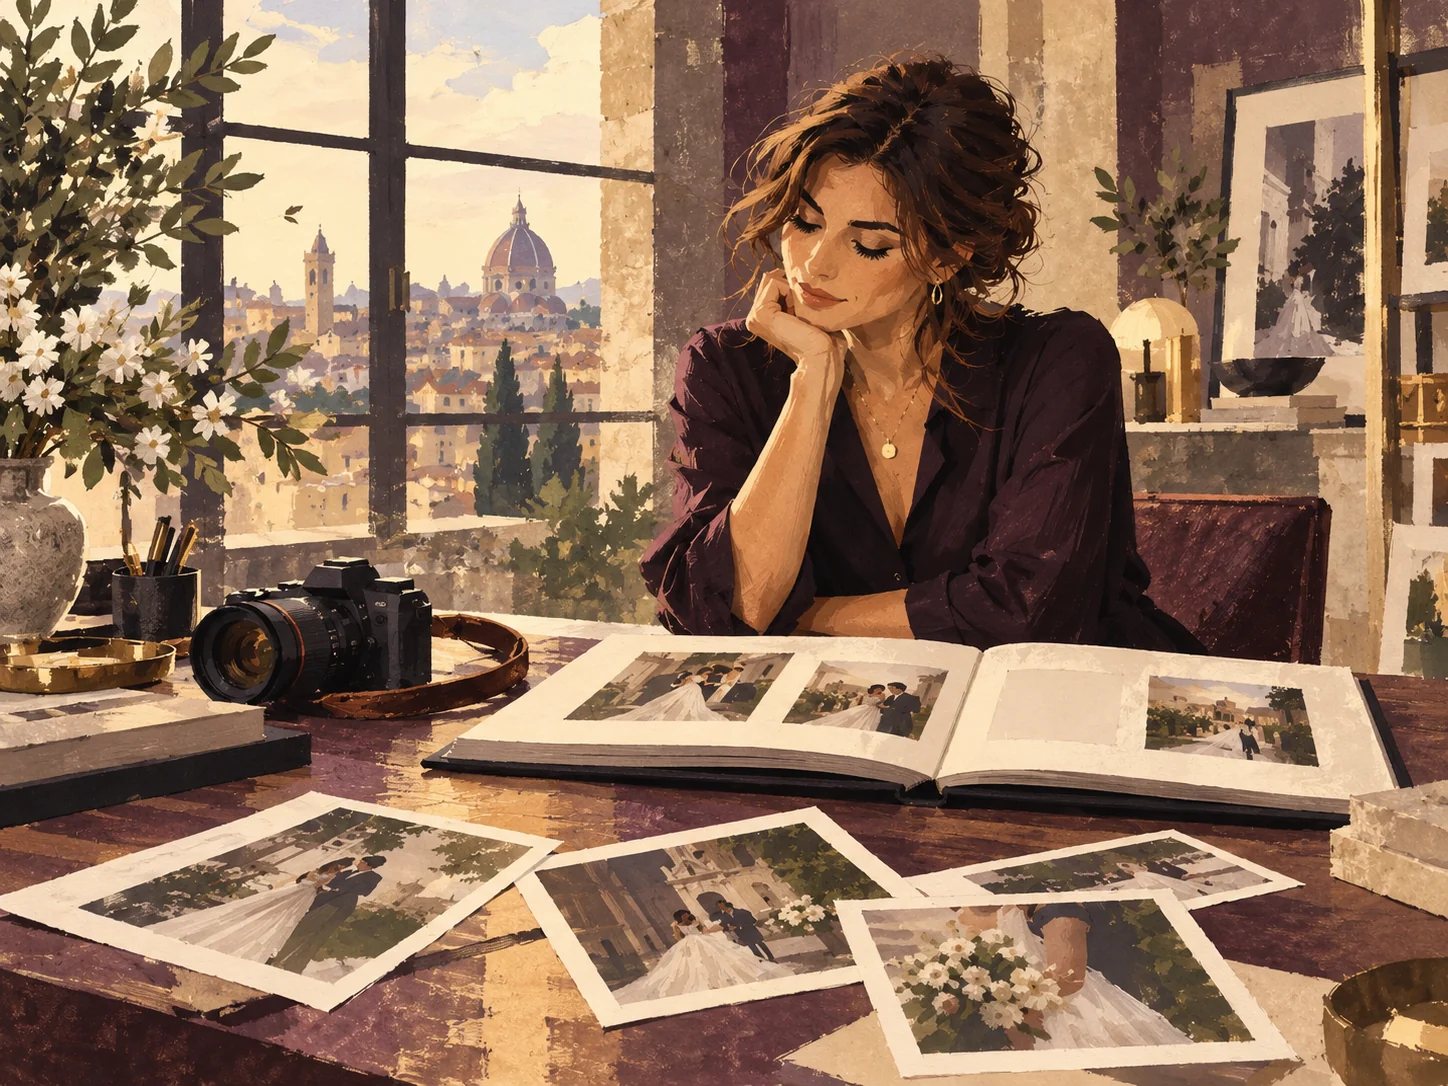
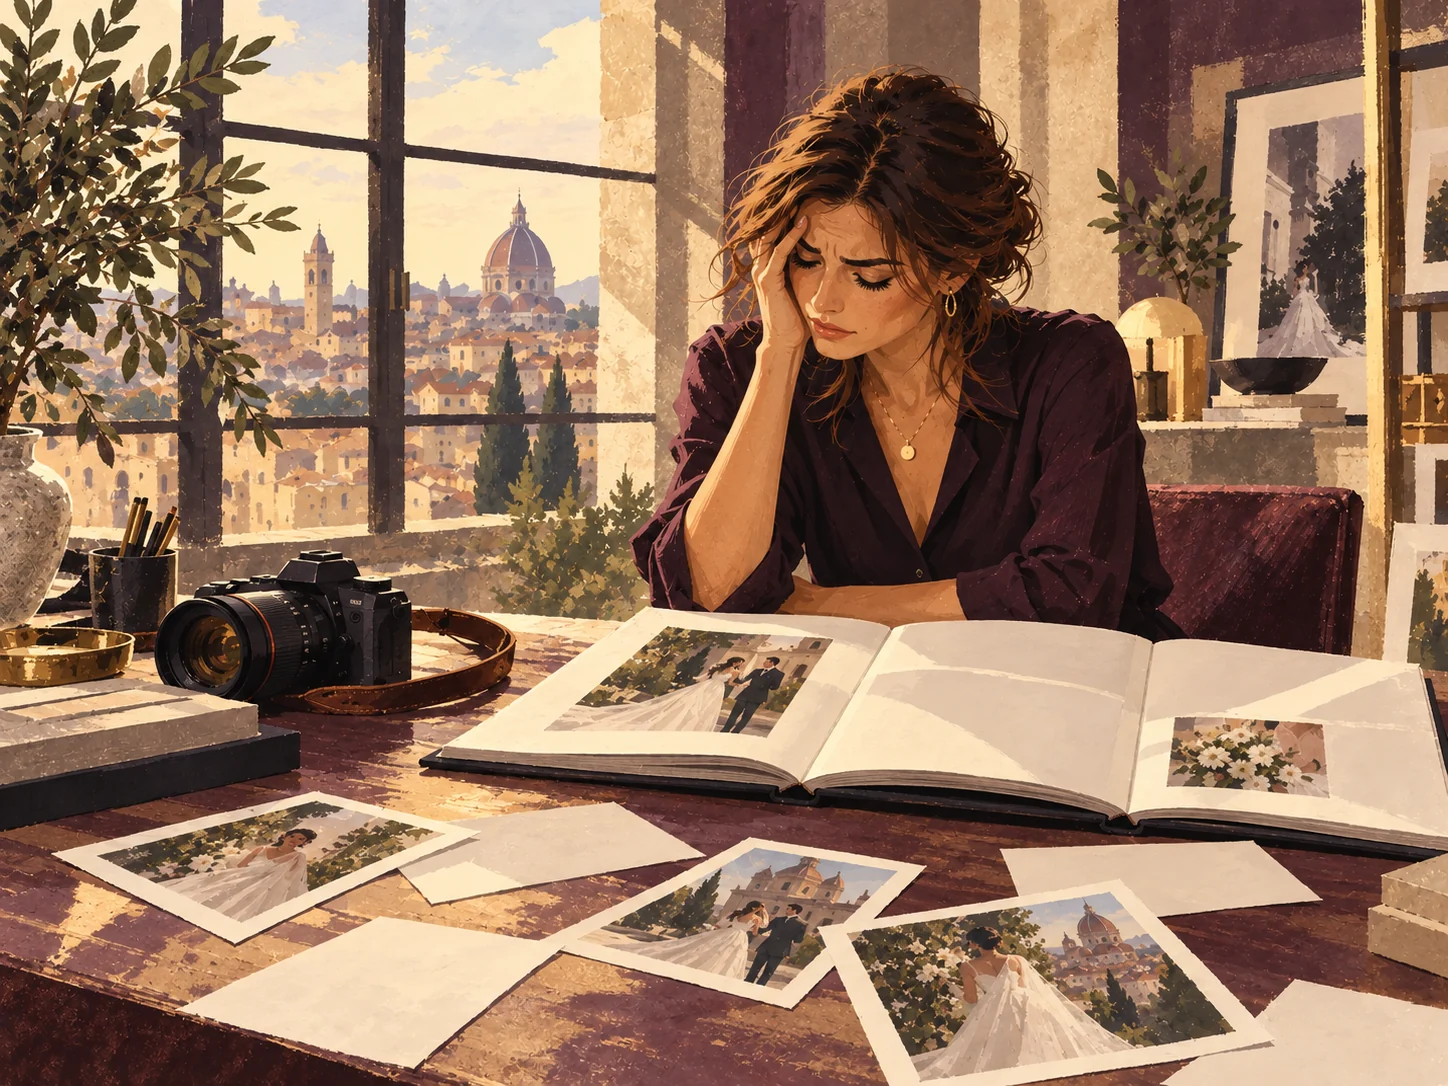
Integrate frustrated photographer and portfolio alternatives

diff --git a/fotografen.html b/fotografen.html
@@ -92,19 +92,31 @@
     .section-content { max-width: 720px; }
     .section-content > p + p { margin-top: 18px; }
     .section-content > p { font-size: 16px; line-height: 1.85; }
-    #problem .section-grid { grid-template-columns: minmax(0, 1fr) minmax(280px, .88fr); gap: clamp(42px, 7vw, 88px); }
-    #problem .section-copy { display: grid; grid-template-columns: minmax(0, 1fr); gap: 20px; align-items: start; }
-    #problem .section-heading h2 { max-width: 560px; }
-    #problem .section-content { max-width: 610px; }
+    #problem .section-grid { display: block; }
+    .problem-panel { overflow: hidden; padding: clamp(24px, 4.5vw, 52px); border: 1px solid var(--border); border-radius: 20px; background: linear-gradient(135deg, rgb(255 255 255 / 2%), transparent 50%), var(--subtle); }
+    .problem-top { display: grid; grid-template-columns: minmax(0, 1.05fr) minmax(320px, .95fr); gap: clamp(32px, 5vw, 70px); align-items: stretch; }
+    .problem-intro { display: flex; flex-direction: column; justify-content: center; gap: 22px; }
+    #problem .section-heading h2 { max-width: 590px; }
+    #problem .section-content { max-width: 630px; }
     #problem .section-content > p { font-size: clamp(16px, 1.45vw, 18px); line-height: 1.75; }
     #problem .section-content > p:first-child { color: var(--ink); font-size: clamp(18px, 1.65vw, 20px); line-height: 1.65; }
-    #problem .section-content > p:last-child { padding-left: 18px; border-left: 1px solid var(--gold); color: var(--muted); }
-    #problem .section-illustration { justify-self: end; width: 100%; margin-top: 0; }
-    .portfolio-alternatives { margin-top: 28px; border-top: 1px solid var(--border); }
-    .portfolio-alternative { display: grid; grid-template-columns: minmax(120px, .72fr) minmax(0, 1.4fr); gap: 18px; padding: 16px 0; border-bottom: 1px solid var(--border); }
-    .portfolio-alternative h3 { margin: 0; color: var(--ink); font-size: 16px; font-weight: 600; letter-spacing: -.02em; line-height: 1.5; }
-    .portfolio-alternative p { color: var(--muted); font-size: 16px; line-height: 1.7; }
-    .portfolio-alternative .alternative-meta { display: block; margin-top: 5px; color: var(--gold); font: 500 9px/1.5 var(--mono); letter-spacing: .08em; text-transform: uppercase; }
+    .problem-illustration { display: flex; min-width: 0; flex-direction: column; align-self: stretch; overflow: hidden; border: 1px solid var(--border); border-radius: 16px; background: var(--surface); }
+    .problem-illustration img { display: block; width: 100%; min-height: 100%; flex: 1; aspect-ratio: 1.15 / 1; object-fit: cover; }
+    .problem-image-note { display: flex; justify-content: space-between; align-items: baseline; gap: 14px; padding: 13px 16px; border-top: 1px solid var(--border); color: var(--muted); font-size: 12px; }
+    .problem-image-note span:first-child { color: var(--gold); font: 500 9px/1.5 var(--mono); letter-spacing: .12em; }
+    .problem-options { margin-top: clamp(32px, 4vw, 48px); padding-top: 27px; border-top: 1px solid var(--border); }
+    .options-heading { display: flex; align-items: baseline; justify-content: space-between; gap: 20px; margin-bottom: 18px; }
+    .options-heading .eyebrow { margin: 0; }
+    .options-heading > p:last-child { color: var(--muted); font-size: 14px; }
+    .portfolio-alternatives { display: grid; grid-template-columns: repeat(3, minmax(0, 1fr)); gap: 14px; }
+    .portfolio-alternative { min-width: 0; padding: 20px; border: 1px solid var(--border); border-radius: 12px; background: rgb(255 255 255 / 1.4%); }
+    .alternative-heading { display: flex; align-items: center; gap: 12px; margin-bottom: 14px; }
+    .alternative-icon { display: grid; width: 38px; height: 38px; flex: 0 0 auto; place-items: center; border: 1px solid rgb(213 182 122 / 30%); border-radius: 10px; background: rgb(213 182 122 / 9%); color: var(--gold); }
+    .alternative-icon svg { width: 20px; height: 20px; fill: none; stroke: currentColor; stroke-linecap: round; stroke-linejoin: round; stroke-width: 1.6; }
+    .portfolio-alternative h3 { margin: 0; color: var(--ink); font-size: 16px; font-weight: 600; letter-spacing: -.02em; line-height: 1.4; }
+    .portfolio-alternative .alternative-meta { display: block; margin-top: 4px; color: var(--gold); font: 500 9px/1.5 var(--mono); letter-spacing: .08em; text-transform: uppercase; }
+    .portfolio-alternative p { color: var(--muted); font-size: 15px; line-height: 1.7; }
+    .problem-conclusion { max-width: 850px; margin: 24px 0 0; padding-left: 18px; border-left: 1px solid var(--gold); color: var(--body); font-size: clamp(16px, 1.45vw, 18px); line-height: 1.75; }
     .subsection { margin-top: 34px; }
     .subsection h3 { display: flex; align-items: center; gap: 12px; }
     .subsection h3::before { width: 18px; height: 1px; background: var(--gold); content: ""; }
@@ -141,6 +153,10 @@
       .pairing-card { width: min(100%, 560px); }
       .pairing-photo { height: 340px; }
       .section-grid { grid-template-columns: minmax(0, .76fr) minmax(0, 1.24fr); gap: 32px; }
+      .problem-top { grid-template-columns: minmax(0, 1fr) minmax(280px, .82fr); gap: 28px; }
+      .portfolio-alternatives { grid-template-columns: 1fr; gap: 0; }
+      .portfolio-alternative { display: grid; grid-template-columns: minmax(150px, .65fr) minmax(0, 1.35fr); gap: 20px; align-items: center; padding: 17px 0; border: 0; border-top: 1px solid var(--border); border-radius: 0; background: transparent; }
+      .alternative-heading { margin: 0; }
       .section-illustration { grid-column: auto; justify-self: start; width: min(100%, 620px); }
       .signup-grid { grid-template-columns: minmax(0, 1fr) minmax(240px, .7fr); }
       .signup-art { display: none; }
@@ -158,6 +174,10 @@
       .pairing-photo { height: 300px; }
       .section-grid { grid-template-columns: 1fr; gap: 24px; }
       #problem .section-grid { grid-template-columns: 1fr; gap: 24px; }
+      .problem-top { grid-template-columns: 1fr; gap: 26px; }
+      .problem-illustration { width: min(100%, 620px); }
+      .problem-illustration img { aspect-ratio: 1.5 / 1; }
+      .options-heading { align-items: flex-start; flex-direction: column; gap: 5px; }
       .section-illustration { grid-column: auto; width: min(100%, 560px); justify-self: start; }
       .section-heading { position: static; }
       .section-heading h2 { max-width: 620px; }
@@ -175,9 +195,6 @@
       .pairing-profile h3 { font-size: 14px; }
       .pairing-profile p { font-size: 11px; }
       .status-code { font-size: 8px; }
-      .portfolio-alternative { grid-template-columns: minmax(0, 1fr); gap: 6px; padding: 14px 0; }
-      .portfolio-alternative h3 { display: flex; align-items: baseline; gap: 10px; }
-      .portfolio-alternative .alternative-meta { margin-top: 0; }
       .actions { display: grid; grid-template-columns: 1fr; }
       .button { width: 100%; min-height: 50px; font-size: 16px; }
       .list-grid, .benefits { grid-template-columns: 1fr; }
@@ -235,22 +252,28 @@
     </section>
 
     <section class="section" id="problem" aria-labelledby="problem-title">
-      <div class="wrap section-grid">
-        <div class="section-copy">
-          <div class="section-heading"><p class="eyebrow">01 / DER AUSGANGSPUNKT</p><h2 id="problem-title">Du hast Erfahrung. Dein Portfolio zeigt sie nur nicht.</h2></div>
-          <div class="section-content">
-            <p>Viele Fotograf:innen bringen bereits echte Erfahrung mit. Sie haben Hochzeiten begleitet und wissen, worauf es ankommt.</p>
-            <p>Doch ihr Portfolio bleibt oft kleiner, als es sein müsste: Viele Paare erlauben nicht, die entstandenen Bilder zu veröffentlichen. Das Können ist da – online bleibt es unsichtbar.</p>
-            <p>Es gibt drei Wege, ein Portfolio zu erweitern. Jeder hat seine eigenen Grenzen:</p>
-            <div class="portfolio-alternatives" aria-label="Möglichkeiten für neue Portfolio-Bilder">
-              <article class="portfolio-alternative"><h3>Styled Shoots<span class="alternative-meta">Inszeniert</span></h3><p>Planung, Models und Location erzeugen Bilder mit kontrollierten Bedingungen. Sie zeigen den eigenen Blick, aber nicht den Ablauf und die spontanen Momente einer echten Hochzeit.</p></article>
-              <article class="portfolio-alternative"><h3>Workshops<span class="alternative-meta">Zeit und Kosten</span></h3><p>Sie bringen neue Impulse und Übung. Bis daraus ein eigenes, vielseitiges Portfolio entsteht, braucht es oft weitere Shootings und zusätzliche Investitionen.</p></article>
-              <article class="portfolio-alternative"><h3>Echte Hochzeiten<span class="alternative-meta">Bildrechte nötig</span></h3><p>Sie zeigen Erfahrung unter realen Bedingungen. Doch viele Paare geben Bilder nicht zur Veröffentlichung frei – die Fotos bleiben privat und fehlen im Portfolio.</p></article>
+      <div class="wrap">
+        <div class="problem-panel">
+          <div class="problem-top">
+            <div class="problem-intro">
+              <div class="section-heading"><p class="eyebrow">01 / DER AUSGANGSPUNKT</p><h2 id="problem-title">Du hast Erfahrung. Dein Portfolio zeigt sie nur nicht.</h2></div>
+              <div class="section-content">
+                <p>Viele Fotograf:innen bringen bereits echte Erfahrung mit. Sie haben Hochzeiten begleitet und wissen, worauf es ankommt.</p>
+                <p>Doch oft dürfen die Bilder nicht veröffentlicht werden. Das Können ist da, aber im Portfolio bleibt die Erfahrung unsichtbar.</p>
+              </div>
             </div>
-            <p>WedConnect setzt genau dort an: Du kannst Hochzeiten entdecken, die zu deinem Stil passen und bei denen die Nutzung der Bilder vorab geklärt werden kann.</p>
+            <figure class="problem-illustration"><img src="https://raw.githubusercontent.com/Supersheriff1/WedConnect_new/main/assets/illustrations/fotografen-portfolio-gap.webp" alt="Eine frustrierte Hochzeitsfotografin blickt auf ein Portfolioalbum mit vielen leeren Seiten. Ihre Erfahrung ist da, aber nur wenige Bilder darf sie zeigen." loading="lazy"><figcaption class="problem-image-note"><span>DIE PORTFOLIO-LÜCKE</span><span>Erfahrung da. Freigabe fehlt.</span></figcaption></figure>
           </div>
+          <div class="problem-options">
+            <div class="options-heading"><p class="eyebrow">WEGE ZUM PORTFOLIO</p><p>Drei Möglichkeiten. Jede mit einer eigenen Hürde.</p></div>
+            <div class="portfolio-alternatives" aria-label="Drei Wege zu neuen Portfolio-Bildern">
+              <article class="portfolio-alternative"><div class="alternative-heading"><span class="alternative-icon" aria-hidden="true"><svg viewBox="0 0 24 24"><rect x="3" y="4" width="18" height="16" rx="2"/><path d="m4 16 5-5 4 4 2-2 5 5M8 8h.01M16 3v3M13 4h6"/></svg></span><div><h3>Styled Shoots</h3><span class="alternative-meta">Inszeniert</span></div></div><p>Location, Models und Ablauf sind geplant. Das gibt schöne Motive, zeigt aber kaum die spontanen Momente einer echten Hochzeit.</p></article>
+              <article class="portfolio-alternative"><div class="alternative-heading"><span class="alternative-icon" aria-hidden="true"><svg viewBox="0 0 24 24"><circle cx="12" cy="12" r="9"/><path d="M12 7v5l3 2M5 4 3 6M19 4l2 2"/></svg></span><div><h3>Workshops</h3><span class="alternative-meta">Zeit und Kosten</span></div></div><p>Du lernst und fotografierst vor Ort. Doch ein vielseitiges eigenes Portfolio entsteht meist erst durch weitere Termine und Investitionen.</p></article>
+              <article class="portfolio-alternative"><div class="alternative-heading"><span class="alternative-icon" aria-hidden="true"><svg viewBox="0 0 24 24"><path d="M6 3h8l4 4v14H6zM14 3v5h5M9 13h6M9 16h3M14 18l2 2 4-5"/></svg></span><div><h3>Echte Hochzeiten</h3><span class="alternative-meta">Bildrechte nötig</span></div></div><p>Sie zeigen Können unter realen Bedingungen. Ohne Freigabe des Paares bleiben die Aufnahmen privat und dürfen nicht ins Portfolio.</p></article>
+            </div>
+          </div>
+          <p class="problem-conclusion">WedConnect setzt genau dort an: Du entdeckst Hochzeiten, die zu deiner Bildsprache passen, und kannst die Veröffentlichung der Bilder vorab klären.</p>
         </div>
-        <figure class="section-illustration"><img src="https://raw.githubusercontent.com/Supersheriff1/WedConnect_new/main/assets/illustrations/fotografen-portfolio-gap.webp" alt="Eine nachdenkliche Hochzeitsfotografin prüft ihr Portfolio und überlegt, wie sie ihre echte Erfahrung sichtbar machen kann." loading="lazy"></figure>
       </div>
     </section>
 
